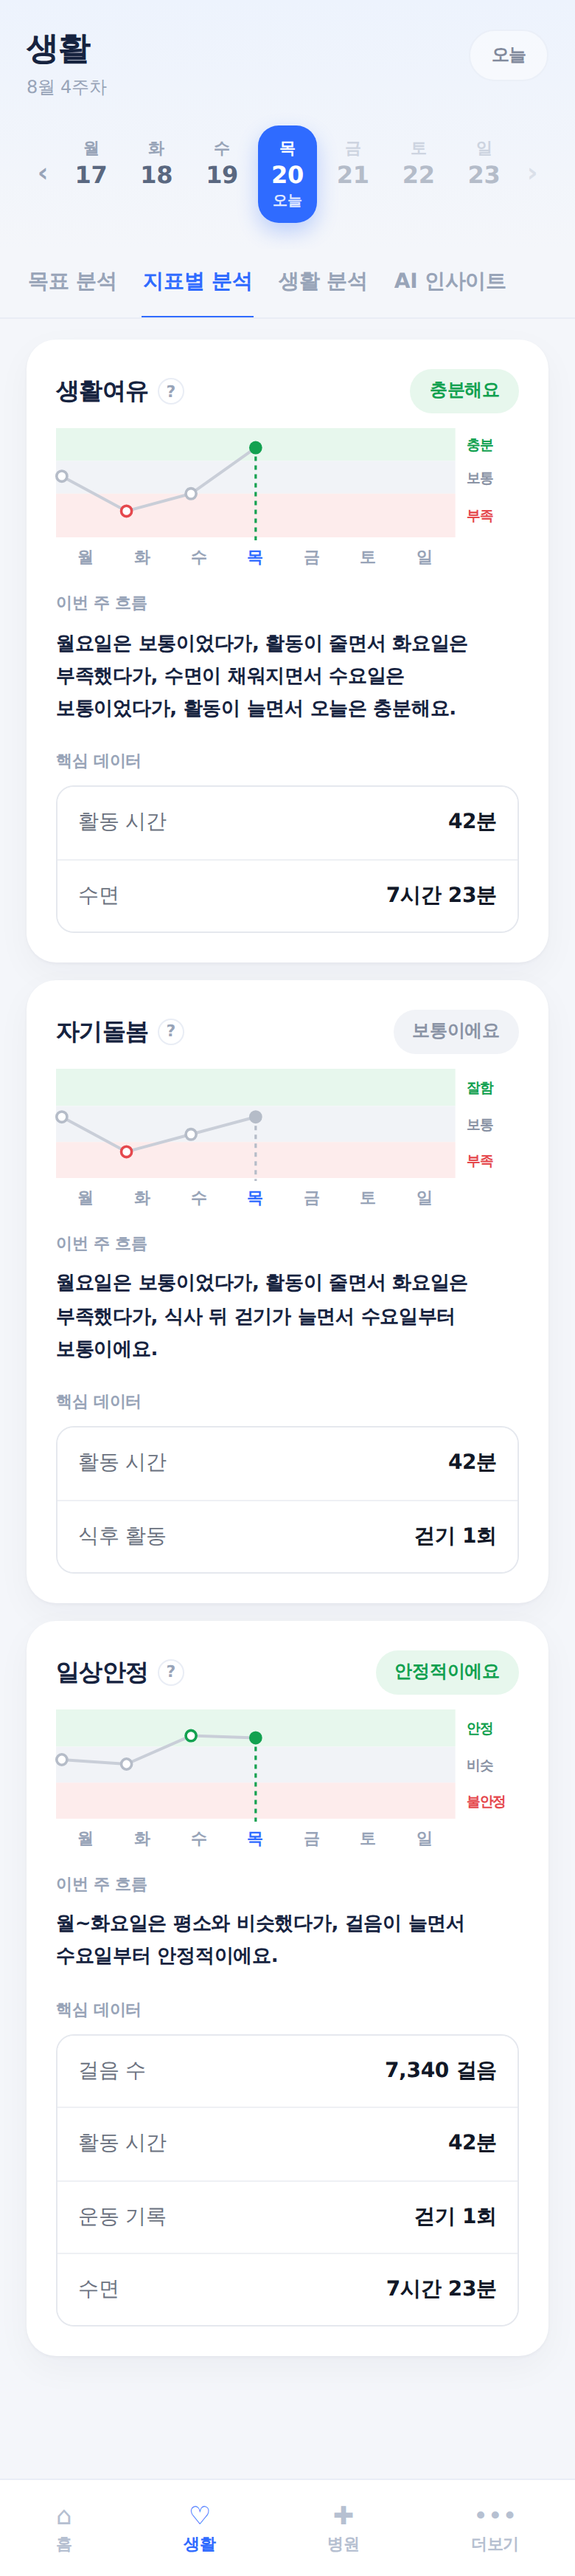
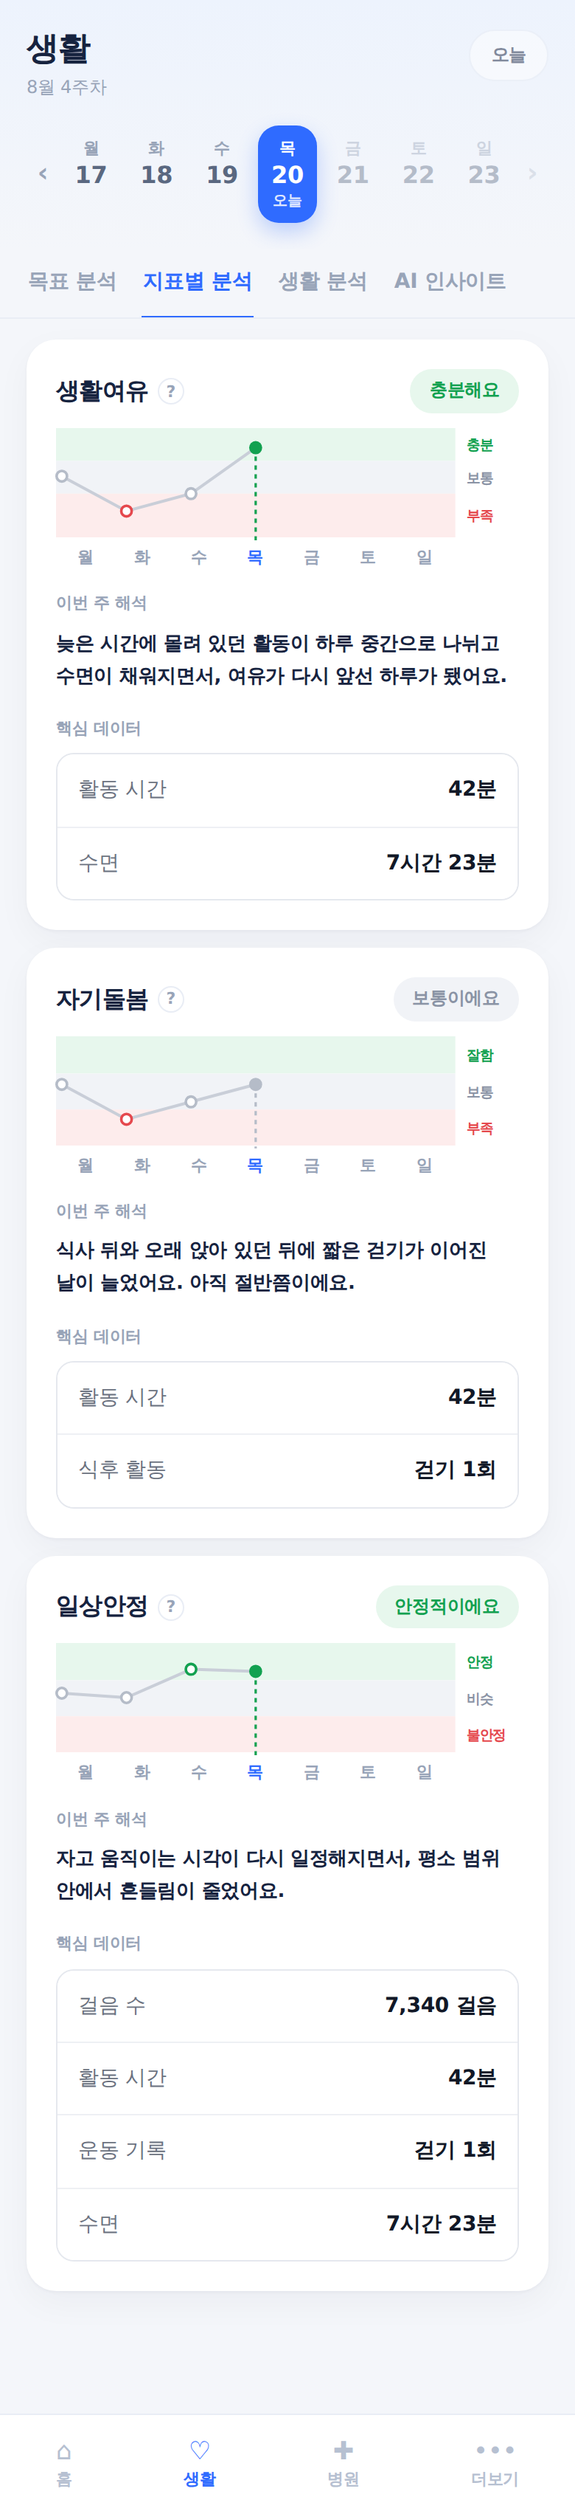
이번 주 해석 규칙 작업 되돌림: 예시 화면 반영 · 구간 경계 확정 시점으로 복원, 규칙 탭 삭제

diff --git a/prototype.html b/prototype.html
@@ -4211,12 +4211,12 @@ const CASE_DATA = {
       bp:   {sys:[118,117,119,118,null,null,null], dia:[76,75,77,76,null,null,null], t:['118 / 76','117 / 75','119 / 77','118 / 76','–','–','–'], avg:'118 / 76'} },
     dayvals:{
       '심박수':['64 bpm','63 bpm','65 bpm','63 bpm','–','–','–'],
-      '수면':['6시간 50분','5시간 40분','6시간 30분','7시간 23분','–','–','–'],
-      '걸음 수':['6,900 걸음','4,100 걸음','7,800 걸음','7,340 걸음','–','–','–'],
+      '수면':['7시간 12분','7시간 6분','7시간 24분','7시간 23분','–','–','–'],
+      '걸음 수':['8,120 걸음','7,860 걸음','8,340 걸음','7,340 걸음','–','–','–'],
       '활동 칼로리':['395 kcal','372 kcal','410 kcal','388 kcal','–','–','–'],
-      '활동 시간':['30분','18분','34분','42분','–','–','–'],
+      '활동 시간':['52분','48분','55분','42분','–','–','–'],
       '운동 시간':['25분','20분','30분','25분','–','–','–'],
-      '운동 기록':['걷기 1회','없음','걷기 1회','걷기 1회','–','–','–'],
+      '운동 기록':['걷기 1회','걷기 1회','조깅 1회','걷기 1회','–','–','–'],
       '체중':['68.4 kg','68.4 kg','68.3 kg','68.4 kg','–','–','–'] },
     dayjudge:{
       '심박수':['안정','안정','안정','안정','–','–','–'],
@@ -4243,9 +4243,9 @@ const CASE_DATA = {
     metricState:{ margin:'low', selfcare:'low', steady:'low' },
     metricWeek:{ margin:[74,42,26,22,null,null,null], selfcare:[68,40,30,26,null,null,null], steady:[72,46,28,22,null,null,null] },
     metricIns:{
-      margin:'화요일부터 수면이 짧아지고 활동 시간이 줄면서, 여유가 3일째 줄고 있어요.',
-      selfcare:'화요일부터 식사 뒤 움직임이 거의 없으면서, 나를 챙긴 순간이 줄었어요.',
-      steady:'화요일부터 걸음 수가 평소보다 크게 줄고 수면이 짧아지면서, 생활 리듬이 흔들리고 있어요.' },
+      margin:'화요일부터 수면이 짧아지고 활동 시간이 줄면서, 여유가 사흘째 줄고 있어요.',
+      selfcare:'화요일부터 식사 뒤나 오래 누워 있던 뒤에 이어지는 움직임이 거의 없었어요.',
+      steady:'화요일부터 걸음 수와 수면이 평소 범위를 벗어나면서, 생활 리듬이 흔들리고 있어요.' },
     series:{
       sleep:{v:[7.2,5.9,5.3,5.17,null,null,null], t:['7시간 12분','5시간 54분','5시간 18분','5시간 10분','–','–','–'], avg:'5시간 54분'},
       bed:  {v:[23.17,23.83,24.67,23.5,null,null,null], t:['23시 10분','23시 50분','00시 40분','23시 30분','–','–','–'], avg:'23시 47분'},
@@ -4432,59 +4432,6 @@ function renderLife(){ renderGoalPane(); renderMetricPane(); renderDaily(); rend
    보조 데이터 영역은 두지 않는다. 숫자 점수는 어디에도 쓰지 않는다. */
 const BAND_WORDS = { margin:['충분','보통','부족'], selfcare:['잘함','보통','부족'], steady:['안정','비슷','불안정'] };
 const CORE_ROWS = { margin:['활동 시간','수면'], selfcare:['활동 시간','식후 활동'], steady:['걸음 수','활동 시간','운동 기록','수면'] };
-/* ── 이번 주 흐름 — 요일별 구간을 순서대로 읽고, 구간이 바뀐 지점마다 이유(핵심 데이터 변화) 하나를 붙인다 ──
-   · 같은 구간이 이어진 날은 묶는다(월~수요일은 …). 마지막은 오늘(또는 시작 요일부터)로 끝낸다.
-   · 이유: 바뀌기 전 날 → 바뀐 날 사이에 가장 많이 달라진 핵심 데이터 1개(좋아짐이면 늘어난 항목, 나빠짐이면 줄어든 항목). 10% 미만이면 이유 생략.
-   · 묶음이 4개를 넘으면 앞부분을 "이번 주는 날마다 달랐다가"로 줄인다. 지난 주는 과거형으로 끝낸다. */
-const FLOW_WORD = {   /* [과거 어간, 현재형] */
-  margin:  {good:['충분했','충분해요'], mid:['보통이었','보통이에요'], low:['부족했','부족해요']},
-  selfcare:{good:['잘 챙겼','잘 챙기고 있어요'], mid:['보통이었','보통이에요'], low:['부족했','부족해요']},
-  steady:  {good:['안정적이었','안정적이에요'], mid:['평소와 비슷했','평소와 비슷해요'], low:['불안정했','불안정해요']}
-};
-const FLOW_REASON = {   /* 항목: [늘었을 때, 줄었을 때] */
-  '수면':['수면이 채워지면서','수면이 짧아지면서'], '활동 시간':['활동이 늘면서','활동이 줄면서'],
-  '식후 활동':['식사 뒤 걷기가 늘면서','식사 뒤 움직임이 줄면서'], '운동 기록':['식사 뒤 걷기가 늘면서','식사 뒤 움직임이 줄면서'],
-  '걸음 수':['걸음이 늘면서','걸음이 줄면서'], '운동':['운동이 늘면서','운동이 줄면서']
-};
-const FLOW_DAYS = ['월','화','수','목','금','토','일'];
-const FLOW_FEW = '아직 흐름을 말하기엔 기록이 적어요.';
-function flowNum(t){
-  if(!t || t==='–' || t==='없음') return 0;
-  const h=t.match(/(\d+)시간/), m=t.match(/(\d+)분/);
-  if(h||m) return (h?+h[1]*60:0)+(m?+m[1]:0);
-  const n=t.replace(/,/g,'').match(/\d+(\.\d+)?/); return n?+n[0]:0;
-}
-function flowReason(k, a, b, up, valFn, avoid){
-  let best=null, bestV=0.1;
-  (CORE_ROWS[k]||[]).forEach(n=>{
-    const name = n==='식후 활동' ? '운동 기록' : n;
-    const key = name==='운동 기록' && k!=='selfcare' ? '운동' : name;   /* 일상안정의 운동 기록은 '운동'으로 말한다 */
-    if(key===avoid) return;                                             /* 바로 앞 변화와 같은 이유는 다시 쓰지 않는다 */
-    const x=flowNum(valFn(name,a)), y=flowNum(valFn(name,b));
-    let r=(y-x)/Math.max(x,1); if(name==='운동 기록') r=Math.max(-0.3,Math.min(0.3,r));   /* 횟수 항목은 비중을 낮춘다 */
-    if((up?r:-r) > bestV){ bestV=up?r:-r; best=key; }
-  });
-  return best;
-}
-function flowText(k, scores, past, valFn){
-  const V={low:0,mid:1,good:2};
-  let t=-1; for(let j=scores.length-1;j>=0;j--) if(scores[j]!=null){ t=j; break; }
-  if(t<0) return FLOW_FEW;
-  const runs=[];
-  for(let j=0;j<=t;j++){ if(scores[j]==null) continue; const st=scoreToState(scores[j],k);
-    const last=runs[runs.length-1]; if(last && last.st===st) last.e=j; else runs.push({st, s:j, e:j}); }
-  const W=FLOW_WORD[k], day=r=> r.s===r.e ? `${FLOW_DAYS[r.s]}요일` : `${FLOW_DAYS[r.s]}~${FLOW_DAYS[r.e]}요일`;
-  let prev=null;
-  const why=(i)=>{ const up=V[runs[i].st]>V[runs[i-1].st]; const key=flowReason(k, runs[i-1].e, runs[i].s, up, valFn, prev); prev=key; return key ? FLOW_REASON[key][up?0:1]+' ' : ''; };
-  const L=runs.length-1, lr=runs[L];
-  const tail = past ? `${day(lr)}은 ${W[lr.st][0]}어요.`
-    : (lr.s===lr.e ? `오늘은 ${W[lr.st][1]}.` : (L===0 ? `${FLOW_DAYS[lr.s]}요일부터 계속 ${W[lr.st][1]}.` : `${FLOW_DAYS[lr.s]}요일부터 ${W[lr.st][1]}.`));
-  if(L===0) return past ? `이 주는 계속 ${W[lr.st][0]}어요.` : tail;
-  let head;
-  if(runs.length>4) head='이번 주는 날마다 달랐다가, ';
-  else head = runs.slice(0,L).map((r,i)=>`${i?why(i):''}${day(r)}은 ${W[r.st][0]}다가, `).join('');
-  return head + why(L) + tail;
-}
 function metricCard(m, scores, i, dayLabels, basisLabel, valFn, judgeFn){
   const meta = METRICS.find(x=>x.k===m.k);
   const color = METRIC_COLOR[m.k];
@@ -4509,7 +4456,7 @@ function metricCard(m, scores, i, dayLabels, basisLabel, valFn, judgeFn){
     </div>
     <div class="mc-def" hidden><span class="dq">${meta.desc}</span><p>${meta.expl}</p></div>
     ${bandGraph(scores, i, color, BAND_WORDS[m.k], dayLabels, m.k)}
-    <div class="src-lab">이번 주 흐름</div><p class="mc-in" style="margin-top:0">${flowText(m.k, scores, !!m.past, valFn)}</p>
+    <div class="src-lab">이번 주 해석</div><p class="mc-in" style="margin-top:0">${m.ins}</p>
     <div class="src-lab">핵심 데이터</div>
     <div class="mc-rows">${core.map(d=>
       `<div class="mc-row"><b>${d.n}</b><span class="v">${valFn(d.n==='식후 활동'?'운동 기록':d.n,i)}</span></div>`).join('')}</div>
@@ -4528,9 +4475,9 @@ function renderMetricPaneHistory(offset){
   const i = 6;
   const wl = weekLabelFor(offset);
   const cards = [
-    {nm:'생활여유', k:'margin',   s:h.metricScores.recovery, past:true},
-    {nm:'자기돌봄', k:'selfcare', s:h.metricScores.load.map(v=>100-v), past:true},
-    {nm:'일상안정', k:'steady',   s:h.metricScores.rhythm, past:true}
+    {nm:'생활여유', k:'margin',   s:h.metricScores.recovery, ins:'수면과 활동 시간이 평소 수준을 지키면서, 이 주는 여유가 대체로 유지됐어요.'},
+    {nm:'자기돌봄', k:'selfcare', s:h.metricScores.load.map(v=>100-v), ins:'식후 활동이 며칠 이어지면서, 이 주는 챙길 순간의 절반쯤을 움직였어요.'},
+    {nm:'일상안정', k:'steady',   s:h.metricScores.rhythm, ins:'걸음 수와 수면이 평소 범위 안에 있으면서, 이 주는 생활 리듬이 평소처럼 이어졌어요.'}
   ];
   const dayLabels = ['월','화','수','목','금','토','일'];
   const valOfH = (name,idx) => (h.dayvals[name] && h.dayvals[name][idx]) || DATA_MAP.find(d=>d.n===name).today;

diff --git a/wip-metric.html b/wip-metric.html
@@ -591,7 +591,7 @@ const COMMON_INFO = [
   ["구간 배지 (좋음 / 보통 / 주의)","지표 구간 판정","생활여유: 충분해요 / 보통이에요 / 부족해요<br>자기돌봄: 잘하고 있어요 / 보통이에요 / 부족해요<br>일상안정: 안정적이에요 / 비슷해요 / 불안정해요<br>색: 좋음 초록 · 보통 회색 · 주의 주황"],
   ["구간 짧은 이름","지표 구간 판정","그래프 오른쪽 띠 이름. 생활여유: 충분 · 보통 · 부족 / 자기돌봄: 잘함 · 보통 · 부족 / 일상안정: 안정 · 비슷 · 불안정"],
   ["주간 그래프","요일별 지표 구간","월~일 7칸. 배경 3구간 띠(위: 충분 · 잘함 · 안정 / 가운데: 보통 · 비슷 / 아래: 부족 · 불안정) 위에 회색 선. 요일 점은 그날 구간 색(좋음 초록 · 보통 회색 · 낮음 빨강)의 빈 원, 선택한 날은 채운 원 + 같은 색 세로 점선. 미래 요일은 비움"],
-  ["이번 주 흐름","요일별 구간 + 핵심 데이터","요일 순서대로 구간을 읽고, 바뀐 지점마다 이유 하나를 붙인 문장"],
+  ["이번 주 해석","지표 해석 문장","1~2문장. 이유(데이터 변화)와 결과(지표 흐름)를 한 문장으로 연결. 날짜를 바꿔도 주 단위 문장 유지"],
   ["핵심 데이터","건강 데이터 연동값","생활여유: 활동 시간 · 수면<br>자기돌봄: 활동 시간 · 식후 활동<br>일상안정: 걸음 수 · 활동 시간 · 운동 기록 · 수면<br>선택한 날의 값"]
 ];
 const SIDE = {
@@ -601,13 +601,13 @@ const SIDE = {
     spec:[["진입 경로","하단 생활 탭 → 상단 탭 ‘지표별 분석’"],
       ["날짜 선택","상단 날짜 띠(월~일)에서 날짜를 고르면 세 카드가 그날 기준으로 다시 표시됨. 오늘 이후 날짜는 선택 불가. ‘오늘’ 버튼으로 오늘로 복귀"],
       ["주 이동","날짜 띠 좌우 화살표로 지난 주 이동. 지난 주는 읽기 전용 화면으로 전환"],
-      ["카드 구성","지표명 + ‘?’ → 구간 배지 → 주간 그래프 → 이번 주 흐름 → 핵심 데이터"],
+      ["카드 구성","지표명 + ‘?’ → 구간 배지 → 주간 그래프 → 이번 주 해석 → 핵심 데이터"],
       ["점수 표시","숫자 점수 · 전일 대비 방향 · y축 눈금은 표시하지 않음. 구간(3단계)으로만 전달"],
       ["구간 경계","0~100 내부 점수 기준. 생활여유: 70 이상 좋음 · 40 이상 보통 · 40 미만 주의 / 자기돌봄 · 일상안정: 66 이상 좋음 · 33 이상 보통 · 33 미만 주의 (v7 지표 탐색기 확정값). 그래프 배경 띠도 같은 경계로 나눔"],
       ["구간 판정 주체","구간은 지표 엔진이 내려주고 앱은 받은 구간을 그대로 표시함 (앱에서 다시 계산하지 않음)"],
-      ["이번 주 흐름 · 만드는 방법","월요일 ~ 오늘의 요일별 구간을 순서대로 읽고 같은 구간은 묶음. 구간이 바뀐 지점마다 가장 많이 달라진 핵심 데이터 하나를 이유로 붙임(좋아지면 늘어난 항목, 나빠지면 줄어든 항목, 10% 미만이면 생략). 묶음이 4개를 넘으면 앞부분은 ‘이번 주는 날마다 달랐다가,’로 줄임"],
-      ["이번 주 흐름 · 표시값","예: 월요일은 보통이었다가, 활동이 줄면서 화요일은 부족했다가, 수면이 채워지면서 수요일은 보통이었다가, 활동이 늘면서 오늘은 충분해요. / 월요일: 오늘은 충분해요. (구간 말 · 이유 문구는 ‘이번 주 흐름 문장 규칙’ 탭)"],
-      ["이번 주 흐름 · 갱신","저장하지 않고 동기화로 구간 · 핵심 데이터가 바뀌면 다시 만듦. 날짜 띠에서 다른 날을 골라도 문장은 오늘까지 기준 그대로. 오늘 관찰 중 · 미연동 · 실패 시 숨김"],
+      ["이번 주 해석 구성","‘무엇이 바뀌면서 → 지표가 어떻게 됐는지’ 순서의 1~2문장. 부분 강조 없이 문장 전체를 본문 강조 톤으로 표시. 필요하면 짧은 보충 한 문장(예: ‘아직 절반쯤이에요.’)"],
+      ["이번 주 해석 작성 규칙","두 줄 안팎(60자 내외). 요일은 ‘화요일부터’처럼 표기. 숫자 점수 · 퍼센트 · 진단이나 몸 상태 단정(‘아픈 동안’ 등) · 행동 지시(‘~하세요’) 미사용. 행동 제안은 오늘의 목표 · 코칭에서 다룸"],
+      ["이번 주 해석 예외","기록 2일 이하: ‘아직 흐름을 말하기엔 기록이 적어요.’ 한 줄 / 관찰 중 카드: 문장 없음"],
       ["비교 기준","생활여유 · 자기돌봄: 내 평소 범위와 비교. 일상안정: 최근 7일을 평소 21일과 비교"]]},
   info:{id:"LIFE-002", title:"지표 설명 펼침", img:()=>"info",
     desc:"지표명 옆 ‘?’를 누르면 카드 안에 지표 정의가 펼쳐지는 상태.",
@@ -630,9 +630,8 @@ const SIDE = {
   lastweek:{id:"LIFE-002", title:"지난 주 (읽기 전용)", img:()=>"lastweek",
     desc:"날짜 띠에서 지난 주로 이동했을 때 그 주 일요일 기준으로 세 지표를 보여주는 상태.",
     info:[["읽기 전용 안내","고정 문구","‘✓ N월 N주(M.D~M.D)는 이미 끝난 주라 읽기 전용이에요.’"],["기준일","주 정보","그 주 일요일 (그래프 점선도 일요일)"]].concat(COMMON_INFO.slice(1)),
-    spec:[["기준","끝난 주의 일요일 기준"],
-      ["이번 주 흐름","그 주 월~일을 같은 방식으로 읽고 과거형으로 끝냄. 예: …목~일요일은 충분했어요."],
-      ["변경","늦게 동기화된 데이터가 있으면 끝난 주의 구간 · 문장도 최신 값으로 바뀜"],
+    spec:[["기준","끝난 주의 일요일 기준. 이번 주 해석은 ‘이 주는 ~’처럼 돌아보는 말투"],
+      ["변경","끝난 주는 데이터가 확정돼 다시 계산하지 않음"],
       ["기록 없음","상세 기록이 없는 주는 ‘아직 상세 기록이 준비되지 않았어요. \"이번 주\"로 돌아가 기록을 확인해보세요.’ 안내"]]}
 };
 const JUMP = [["main","① 지표별 분석"],["info","② 지표 설명 펼침"],["none","③ 관찰 중"],["unlinked","④ 미연동"],["lastweek","⑤ 지난 주"]];

diff --git a/index.html b/index.html
@@ -75,7 +75,6 @@ dialog .err{color:#b91c1c;font-size:12px;margin-top:8px;min-height:1em}
  <span class="sec wip admin-only">작업중 · 관리자만 보임</span>
  <a class="admin-only" href="#wip-clinic" data-src="wip-clinic-codef.html">🚧 진료정보 예시화면 (CODEF)</a>
  <a class="admin-only" href="#wip-metric" data-src="wip-metric.html">🚧 지표별 분석 화면설계서</a>
- <a class="admin-only" href="#wip-metric-rules" data-src="wip-metric-rules.html">🚧 이번 주 흐름 문장 규칙</a>
  <a class="admin-only" href="#wip-diet-demo" data-src="wip-diet-demo.html">🚧 식이 시연 시나리오</a>
  <div class="tools">
   <span class="who" id="who"></span>
